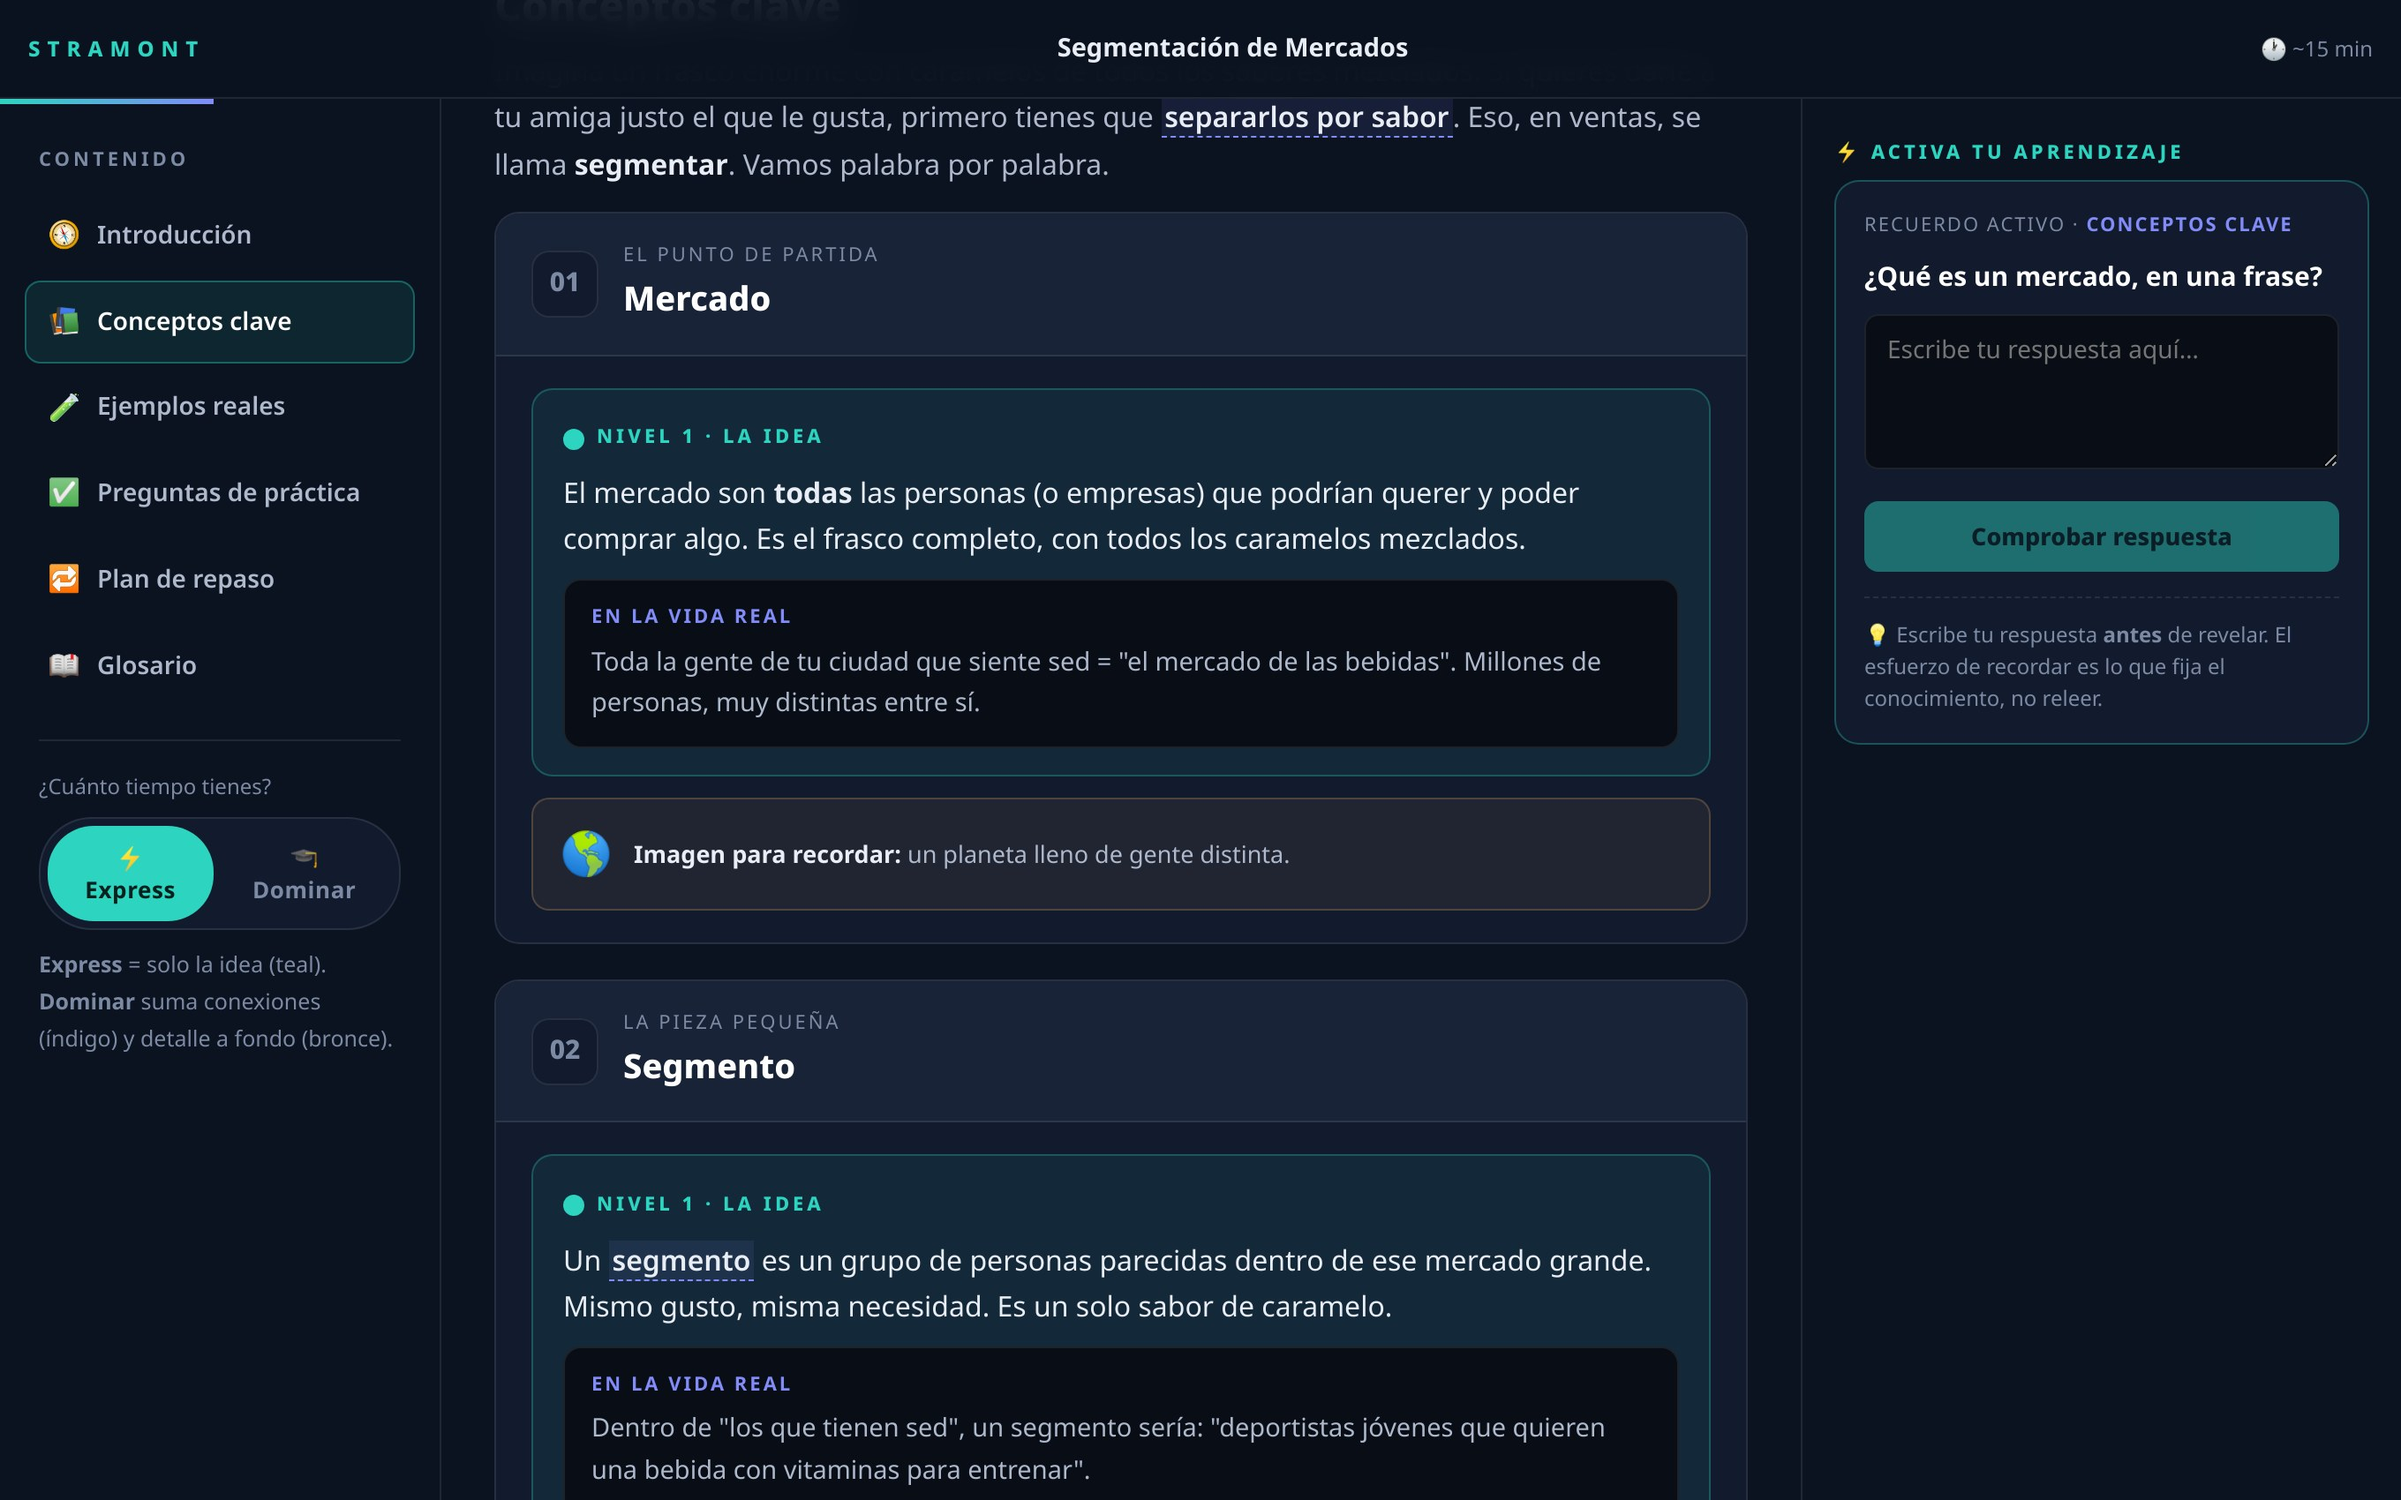
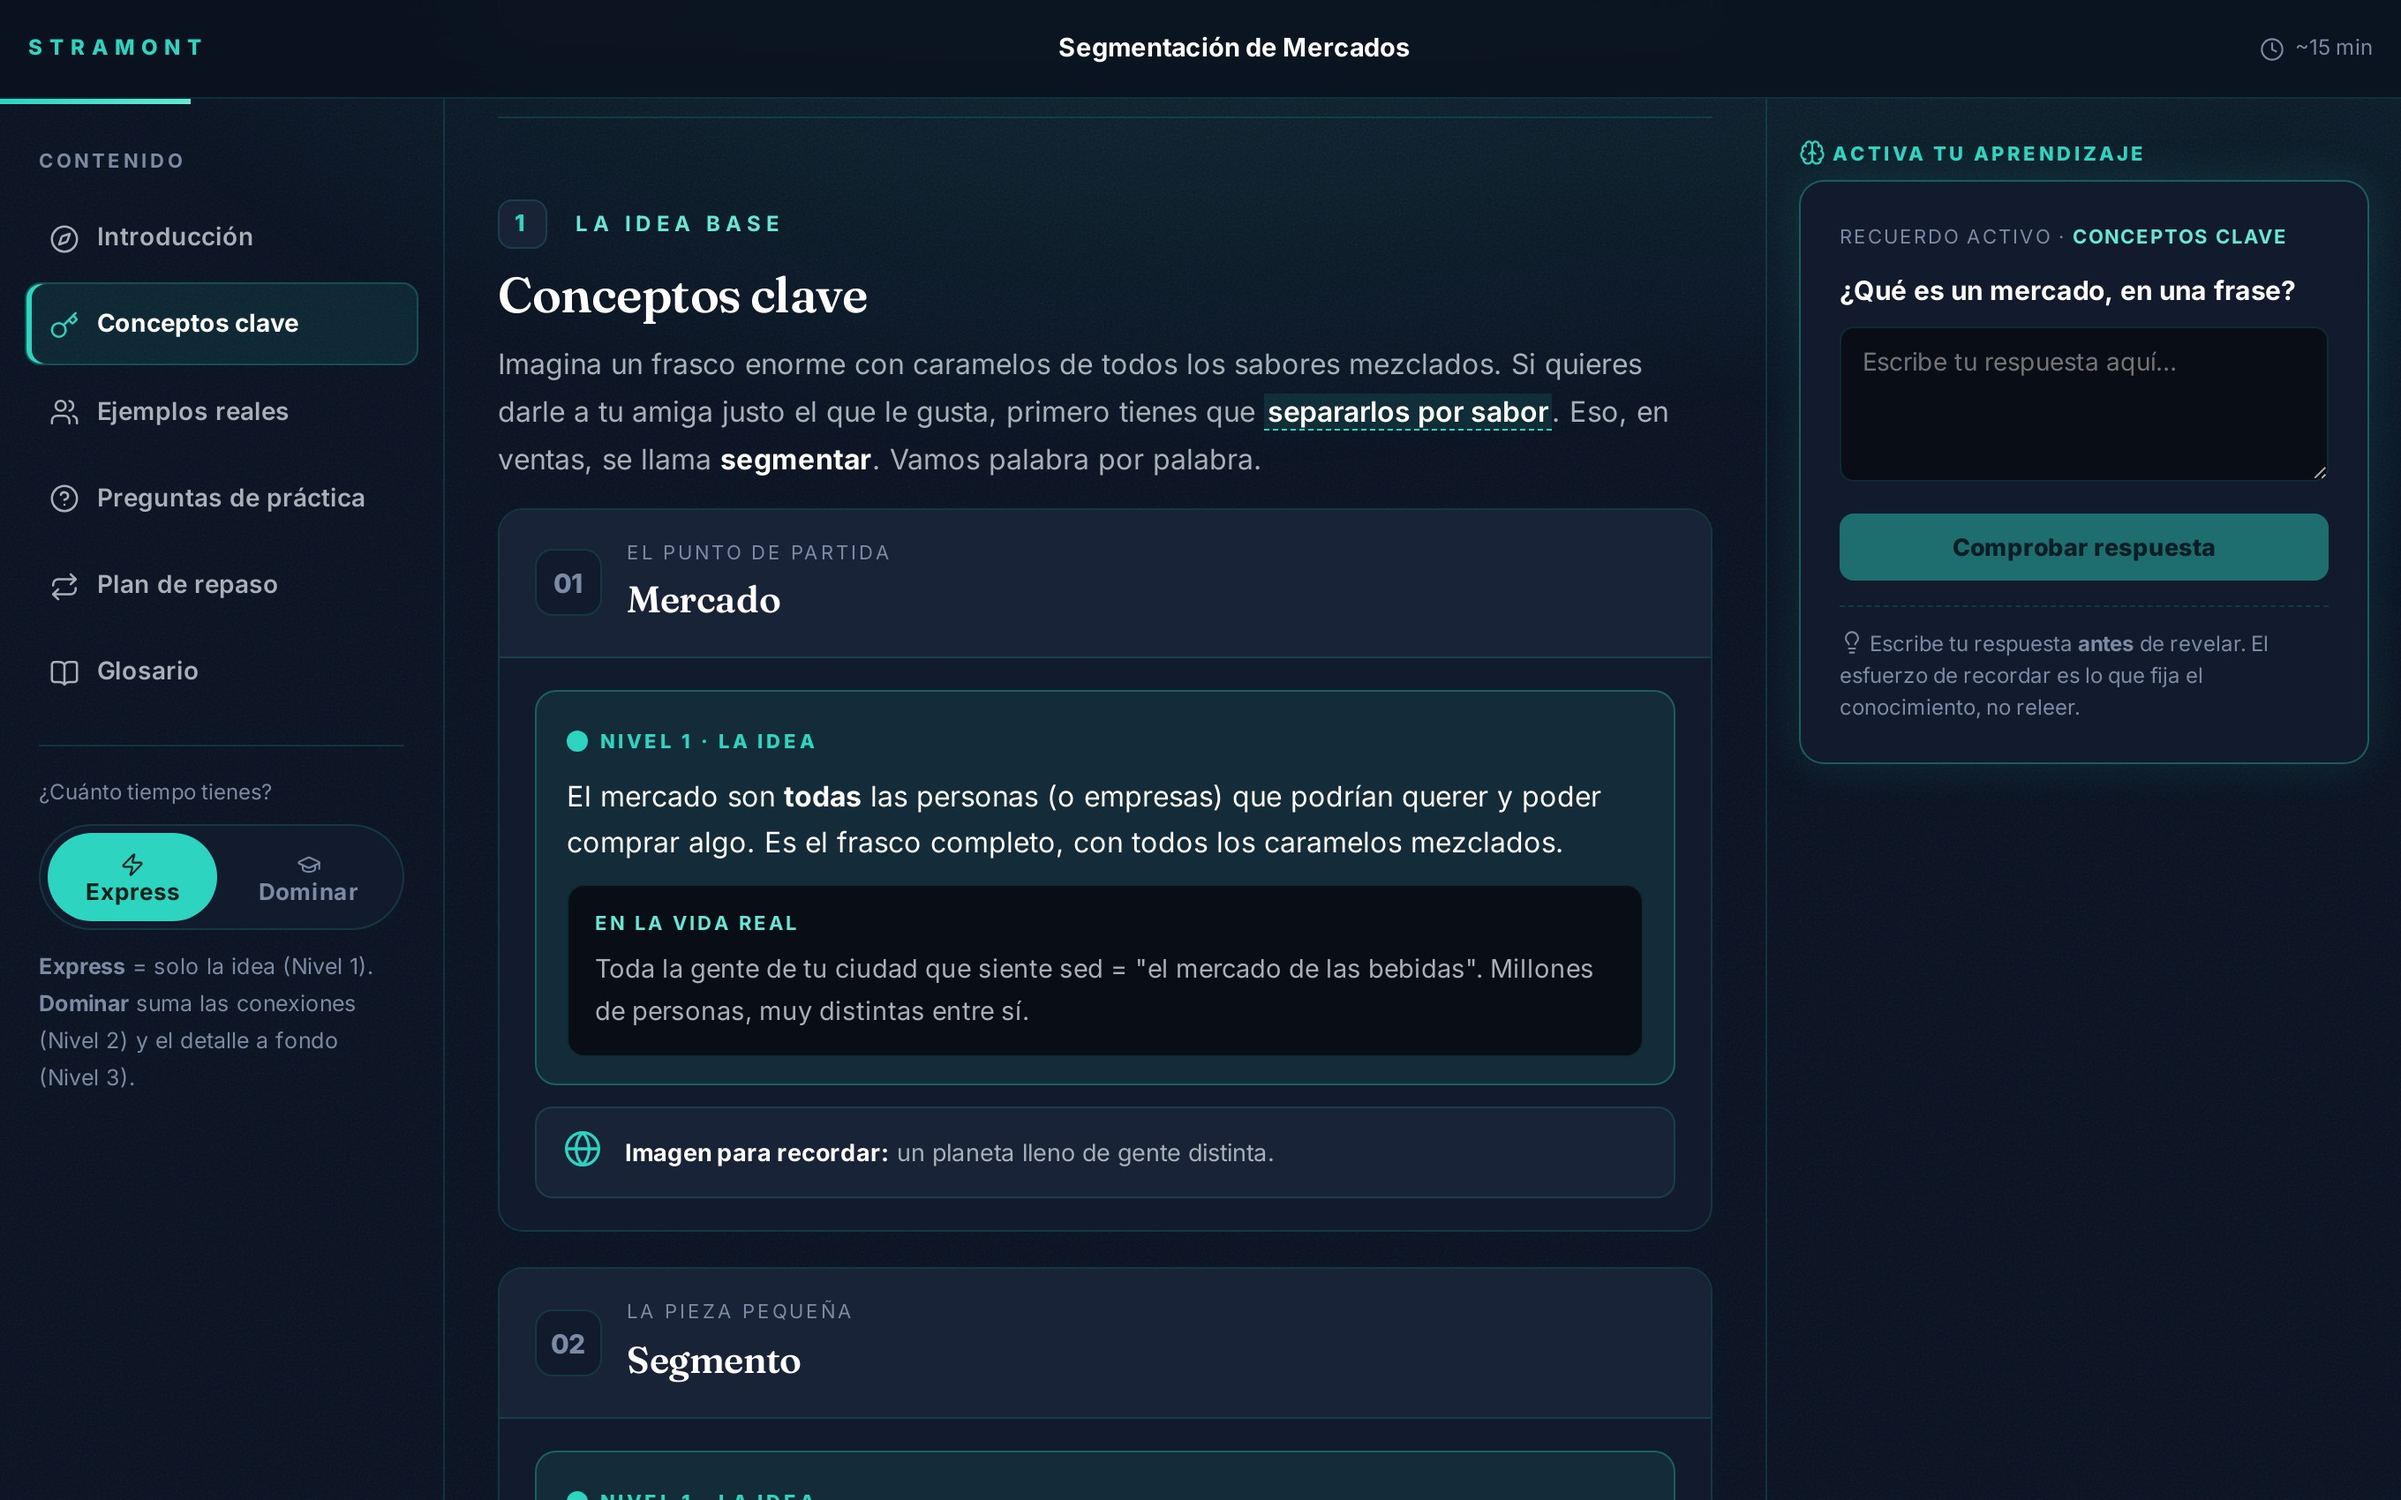
Guia: fix drawer movil + foto 'El Cambio' sin marco + captura nueva de la landing
- Guia (segmentacion): drawer movil arreglado -> panel elevado (surface + sombra derecha) que SE DISTINGUE del fondo, altura completa (100dvh, llega hasta abajo como barra real), y backdrop mucho mas suave (velo 28% + blur ligero) en vez del negro 50% que 'apagaba' la pantalla.
- Landing (index.html): la foto de apuntes reales de 'El Cambio' pierde el marco azul y la rotacion (se veia como 'recorte de mala calidad'); queda derecha, limpia, con una vinneta oscura sutil (efecto oscurito) y sombra. NO toca el lightbox (evita revertir el #100).
- guia-segmentacion-nueva.jpg regenerada con el nuevo look azul (mismo tamano 2720x1700, mismo encuadre) -> el showcase 'CON STRAMONT' ahora se vende solo. EL HERO NO SE TOCA (guia-hero.jpg / apuntes-hero.jpg intactos).
Verificado con Chromium (movil + escritorio), sin errores JS.

diff --git a/index.html b/index.html
@@ -47,8 +47,10 @@
     .cx-sub{color:#6b7688;font-size:15px;margin:14px 0 24px;}
 
     /* --- SIN STRAMONT: foto única de apuntes reales (enmarcada) --- */
-    .cx-foto{display:flex;justify-content:center;margin:2px auto 0;}
-    .cx-foto img{width:min(700px,90vw);height:auto;border-radius:14px;border:9px solid #0B1220;box-shadow:0 24px 56px rgba(11,18,32,.28);transform:rotate(-1.2deg);cursor:zoom-in;}
+    .cx-foto{position:relative;width:fit-content;max-width:100%;margin:2px auto 0;}
+    .cx-foto img{display:block;width:min(700px,90vw);height:auto;border-radius:14px;box-shadow:0 26px 60px rgba(11,18,32,.4);cursor:zoom-in;}
+    /* efecto oscuro sutil (viñeta), sin marco: acaba con el look de "recorte" */
+    .cx-foto::after{content:"";position:absolute;inset:0;border-radius:14px;pointer-events:none;background:radial-gradient(130% 108% at 50% 0%, transparent 50%, rgba(6,10,20,.55) 100%);box-shadow:inset 0 0 0 1px rgba(255,255,255,.05);}
 
     /* Lightbox / vista previa ampliada de la foto de apuntes */
     .cx-lightbox{position:fixed;inset:0;z-index:9999;display:none;align-items:center;justify-content:center;padding:24px;background:rgba(6,10,18,.88);backdrop-filter:blur(5px);cursor:zoom-out;}
@@ -106,7 +108,7 @@
       .cambio-wrap{margin-top:26px;}
       .cx-points{grid-template-columns:1fr;max-width:460px;gap:11px;}
       .cx-points li:last-child{grid-column:auto;}
-      .cx-foto img{width:90vw;border-width:6px;box-shadow:0 16px 38px rgba(11,18,32,.22);}
+      .cx-foto img{width:90vw;box-shadow:0 18px 40px rgba(11,18,32,.3);}
       .cx-stats{grid-template-columns:repeat(2,1fr);}
       .cx-btn{font-size:15px;padding:16px 22px;width:100%;box-sizing:border-box;justify-content:center;}
       .cx-open{display:none;}

diff --git a/segmentacion-de-mercados.html b/segmentacion-de-mercados.html
@@ -104,9 +104,9 @@
     .app{grid-template-columns:1fr;}
     .tb-burger{display:block;}
     .main{padding:8px 18px 90px;}
-    .sidebar{position:fixed;top:var(--topbar-h);bottom:0;left:0;width:min(84vw,300px);z-index:190;background:var(--bg);transform:translateX(-104%);transition:transform .25s ease;height:auto;}
+    .sidebar{position:fixed;top:var(--topbar-h);left:0;width:min(84vw,300px);height:calc(100dvh - var(--topbar-h));z-index:190;background:var(--surface);border-right:1px solid var(--line);box-shadow:12px 0 40px rgba(0,0,0,.5);overflow-y:auto;transform:translateX(-104%);transition:transform .25s ease;}
     .sidebar.abierta{transform:translateX(0);}
-    .backdrop.on{display:block;position:fixed;inset:var(--topbar-h) 0 0 0;background:rgba(0,0,0,.5);z-index:180;}
+    .backdrop.on{display:block;position:fixed;inset:var(--topbar-h) 0 0 0;background:rgba(5,9,18,.28);backdrop-filter:blur(1.5px);-webkit-backdrop-filter:blur(1.5px);z-index:180;}
   }
 
 
